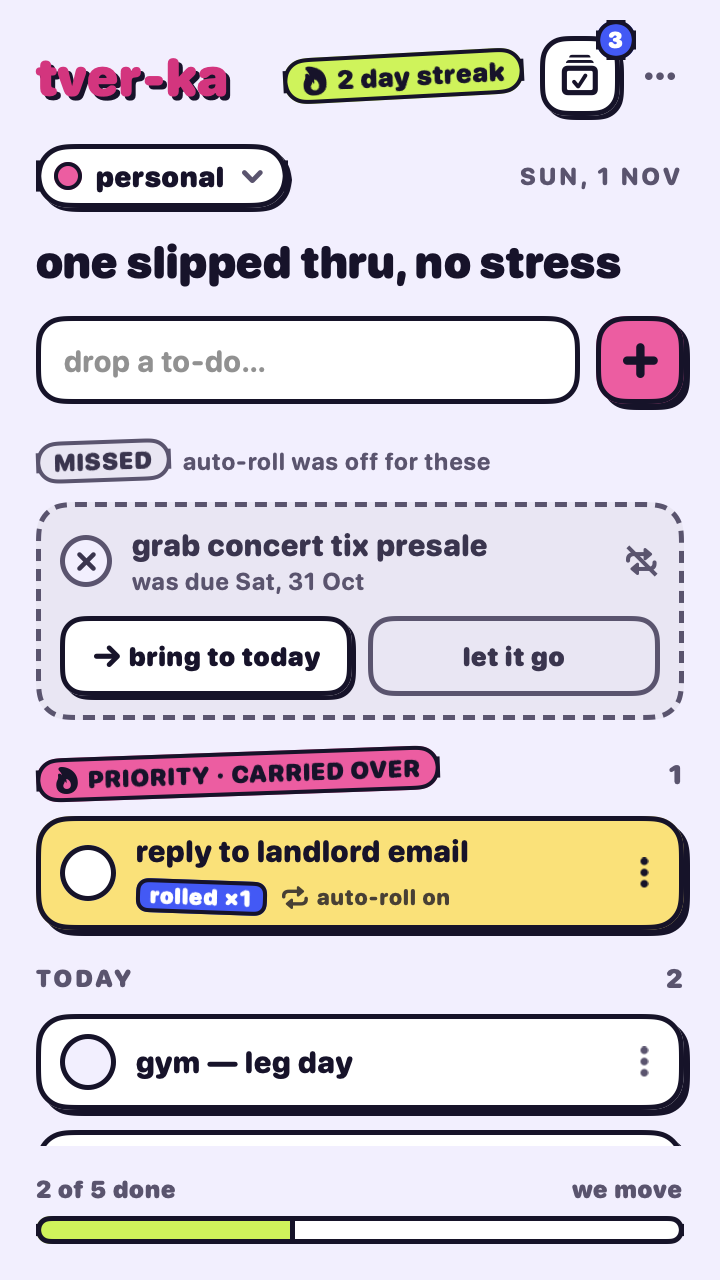
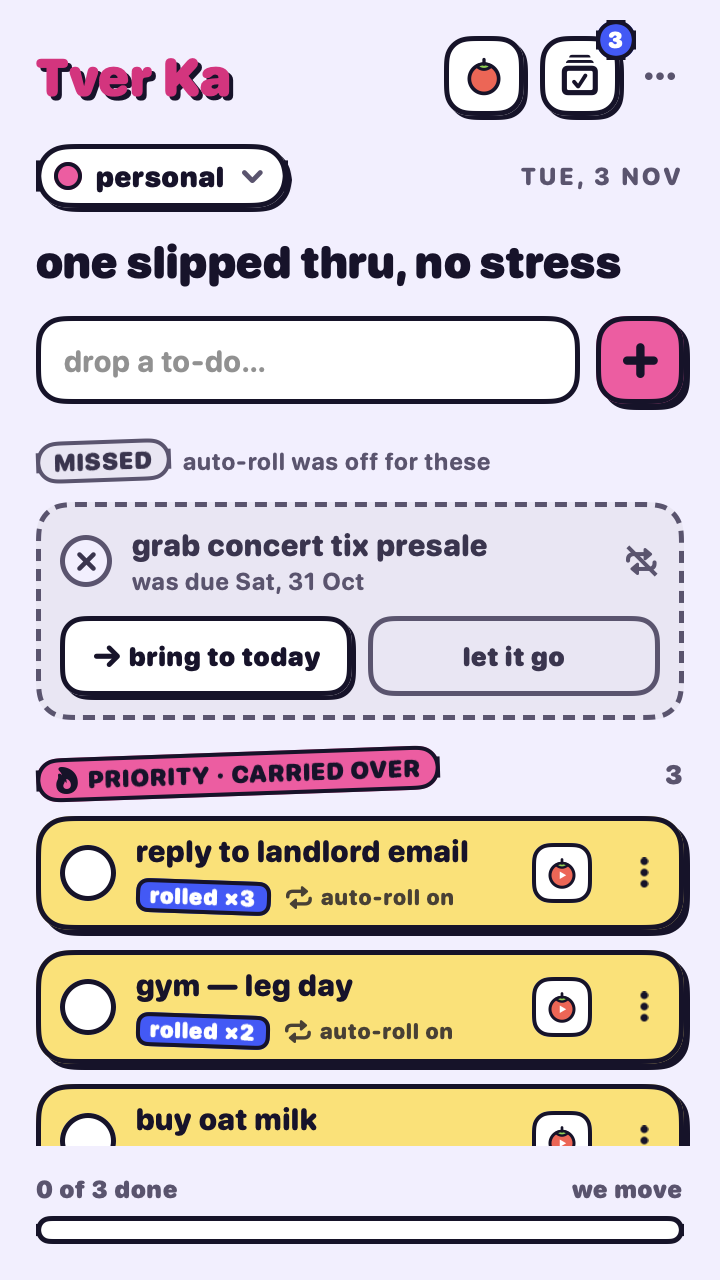
docs: document Focus mode and refresh screenshots for Tver Ka
Expand the Pomodoro section with how a session goes, menu bar states
and the timing table, add self-updating to the feature list, and
regenerate every screenshot with the Tver Ka name, including the break
card and the focus menu bar icons.

diff --git a/README.md b/README.md
@@ -40,9 +40,10 @@ You can't ignore it, but you can turn it off for any single task. Those tasks st
 - **The done pile.** Finished to-dos stay out of the way behind one small button, grouped by day, and each one can be undone.
 - **Streaks.** The streak counts the days in a row you've finished at least one to-do.
 - **Menu bar icon.** A full-color mascot that's easy to spot, with your open count. A yellow dot means priority to-dos are waiting.
-- **Focus mode (optional).** A built-in Pomodoro timer: start a focus session on any to-do, earn a 🍅 per session, and see the countdown right in the menu bar. It's off until you turn it on.
+- **Focus mode (optional).** A built-in Pomodoro timer: start a focus session on any to-do, earn a 🍅 per session, and see the countdown right in the menu bar. It's off until you turn it on. [More below](#focus-mode-pomodoro).
 - **Add from your iPhone.** Turn on iCloud sync and use the included Shortcut: "Hey Siri, add to Tver Ka", the Action button, or a home screen icon. To-dos land on your Mac within seconds.
 - **Light, dark, or match system.**
+- **Updates itself.** Checks GitHub daily, then installs signed updates in place with one click, so you never end up with two copies.
 - **Native and private.** SwiftUI, no account, no server. Your data is a single JSON file, kept on your Mac or in your own iCloud Drive.
 
 <p align="center">
@@ -55,8 +56,9 @@ You can't ignore it, but you can turn it off for any single task. Those tasks st
   <img src="docs/screenshots/projects-manage-light.png" width="240" alt="Manage projects sheet">
 </p>
 <p align="center">
-  <img src="docs/screenshots/menubar-light.png" width="240" alt="Menu bar icon on a light menu bar, normal and with the priority dot">
-  <img src="docs/screenshots/menubar-dark.png" width="240" alt="Menu bar icon on a dark menu bar, normal and with the priority dot">
+  <img src="docs/screenshots/menubar-light.png" width="380" alt="Menu bar icons on a light menu bar: normal, priority waiting, focusing, on a break, paused">
+  <br>
+  <img src="docs/screenshots/menubar-dark.png" width="380" alt="Menu bar icons on a dark menu bar: normal, priority waiting, focusing, on a break, paused">
 </p>
 
 ## Install
@@ -135,17 +137,47 @@ Name it **Add to Tver Ka**.
 ## Focus mode (Pomodoro)
 
 <p align="center">
-  <img src="docs/screenshots/focus-running-light.png" width="240" alt="A focus session running on a to-do">
-  <img src="docs/screenshots/focus-settings-light.png" width="240" alt="Focus mode settings">
+  <img src="docs/screenshots/focus-running-light.png" width="240" alt="A focus session running on a to-do, with the countdown card">
+  <img src="docs/screenshots/focus-askdone-light.png" width="240" alt="On a break after a session, asking whether the to-do is done">
+  <img src="docs/screenshots/focus-settings-light.png" width="240" alt="Focus mode settings: timings, auto-start and sound">
 </p>
 
-An optional Pomodoro timer built into your to-dos. It's **off by default**: turn it on in **`…` › Focus mode (pomodoro)**.
+The [Pomodoro Technique](https://en.wikipedia.org/wiki/Pomodoro_Technique), built into your to-dos: work in short focused sprints with breaks in between, and see where your effort actually went. It's **optional and off by default**, so if you don't want it, nothing changes.
 
-- **Focus on a to-do:** tap the 🍅▶ button on any row. Or tap the tomato in the header for a free session with no task.
-- **While it runs:** a focus card shows the countdown, the task, and pause / skip / stop controls, and the **menu bar shows the time left** (a cup means you're on a break, and the icon dims while paused).
-- **When a session ends:** you get a notification and a chime, the task earns a tomato (shown as 🍅×N on the row), and Tver Ka asks whether that to-do is done. The break starts by itself.
-- **Classic timings:** 25 min focus, 5 min short break, and a 15 min long break every 4 sessions, all adjustable in **`…` › Focus settings…**, along with auto-start and sound.
-- **What's stored where:** tomatoes stay with a to-do when it rolls over, so carried-over tasks show the effort already spent. Your settings and the running timer are per Mac. Tomato counts live in your data file, so they sync with iCloud too.
+**Turn it on:** **`…` › Focus mode (pomodoro)**. The first time, macOS asks whether Tver Ka can send notifications.
+
+**How a session goes:**
+1. **Start.** Tap the 🍅▶ button on any to-do row to focus on that task, or the tomato in the header for a free session with no task.
+2. **Focus.** A red card replaces the greeting, with a big countdown, the task you're on, a progress bar, and pause / skip / stop. The task gets a dashed outline and "focusing…", and the **menu bar shows the time left**, so you don't need to open anything.
+3. **Session done.** A notification and a little chime. The task earns a tomato (🍅×N on its row), the card turns lime for the break, and Tver Ka asks: *"nice! is it done?"* Tap **done** to check it off, or **keep going**. The notification has quick **Mark done** and **Start break** buttons too.
+4. **Repeat.** Every 4th session earns a long break.
+
+**In the menu bar:**
+
+| Icon | Means |
+| --- | --- |
+| Mascot + count | No session running: the number of open to-dos |
+| Mascot with a 🍅 + `18:42` | Focusing, with the time left |
+| Lime mug + `04:12` | On a break |
+| Dimmed + time | Paused |
+
+**Timings** (all adjustable in **`…` › Focus settings…**):
+
+| Setting | Default | Range |
+| --- | --- | --- |
+| Focus | 25 min | 5–90 min |
+| Short break | 5 min | 1–30 min |
+| Long break | 15 min | 5–60 min |
+| Long break every | 4 sessions | 2–8 |
+| Auto-start breaks | on | |
+| Auto-start next focus | off | |
+| Sound | on | |
+
+**Good to know:**
+- The timer follows the real clock, so it stays accurate through sleep and lid-close, and a running session survives quitting the app.
+- Tomatoes stay with a to-do when it rolls over, so a carried-over task shows the effort already spent. They also appear in the done pile and in the iPhone `Today.md`.
+- Settings and the running timer are per Mac. Tomato counts live in your data file, so they sync through iCloud with everything else.
+- Turning Focus mode off hides the buttons, card and counts, but keeps any tomatoes you've earned.
 
 ## How rollover works
 
